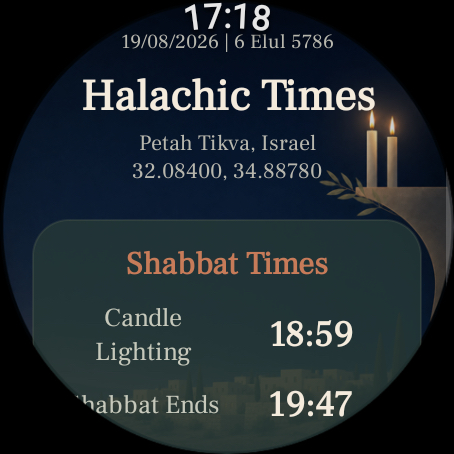
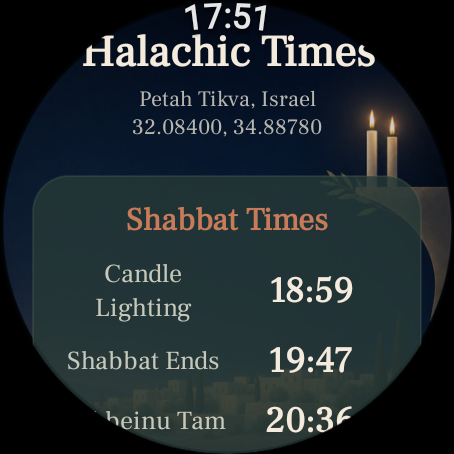
Polish English alerts and store screenshots

diff --git a/app/src/main/java/com/woodpeckerbros/watchreminder/UiText.java b/app/src/main/java/com/woodpeckerbros/watchreminder/UiText.java
@@ -181,6 +181,7 @@ public class UiText {
         put("כבוי", "Off");
         put("תזכורת דף היומי פעילה", "Daf Yomi reminder active");
         put("זמן לתזכורת", "Time for a Reminder");
+        put("אפשר לדחות", "Snooze options");
         put("בדיקת לימוד דף היומי", "Daf Yomi Study Check");
         put("תיקון סימון", "Fix Marking");
         put("אם סימנת בטעות שלמדת, אפשר להחזיר דף לרשימת ההשלמות", "If you marked a page learned by mistake, you can move it back to the catch-up list");
@@ -244,6 +245,8 @@ public class UiText {
         put("סוף זמן שמע גר״א", "Latest Shema (GRA)");
         put("סוף זמן ברכות ק״ש", "Latest Shema Blessings");
         put("חצות", "Halachic Midday");
+        put("חצות יום", "Halachic Midday");
+        put("חצות לילה", "Halachic Midnight");
         put("מנחה גדולה", "Mincha Gedola");
         put("מנחה קטנה", "Mincha Ketana");
         put("פלג המנחה", "Plag HaMincha");

diff --git a/app/src/main/java/com/woodpeckerbros/watchreminder/ReminderAlertActivity.java b/app/src/main/java/com/woodpeckerbros/watchreminder/ReminderAlertActivity.java
@@ -106,16 +106,13 @@ public class ReminderAlertActivity extends Activity {
         LinearLayout.LayoutParams iconParams = new LinearLayout.LayoutParams(dp(64), dp(64));
         iconParams.setMargins(0, dp(2), 0, dp(8));
         icon.setLayoutParams(iconParams);
-        TextView title = text("זמן לתזכורת", 18, COLOR_TEXT);
-        AppFont.bold(title);
-        TextView name = text(alertReminderName, 25, COLOR_TEXT);
+        TextView name = text(alertReminderName, 21, COLOR_TEXT);
         AppFont.bold(name);
         name.setPadding(0, dp(7), 0, dp(7));
         TextView description = text(reminderDescription, 14, COLOR_MUTED);
         description.setPadding(dp(6), 0, dp(6), dp(8));
 
         card.addView(icon);
-        card.addView(title);
         card.addView(name);
         if (!reminderDescription.isEmpty()) {
             card.addView(description);

diff --git a/PROJECT_STATUS.md b/PROJECT_STATUS.md
@@ -72,6 +72,9 @@ WatchReminder/
 - צילום זמני השבת העברי לחנות הוחלף בצילום ממוקם ידנית שמציג יחד את כותרת המסך, המיקום, איור הנרות וכל שלושת הזמנים: הדלקת נרות, צאת שבת וצאת שבת ר״ת.
 - צילום ההתראה העברי לחנות הוחלף בצילום ממוקם ידנית שמציג את שם התזכורת, שעת המקור, כפתור „בוצע” ותחילת אפשרויות הדחייה. זמן הסגירה הוארך רק באמולטור לצורך המיקום והוחזר לאחר הצילום לברירת המחדל של 30 שניות; רכיב הפתיחה הזמני הוסר.
 - לסט צילומי החנות העברי נוספו שלוש חלופות ממוקמות ידנית: זמני היום ביום רגיל עם פרשת השבוע וזמני הבוקר, מסך תזכורת לברכה עם אפשרויות הברכה, ומסך יצירת תזכורת המציג את סוגי התזכורות והגדרת זמן הלכתי. כעת קיימים 11 מועמדים בעברית, שמתוכם יש לבחור עד 8 להעלאה ל־Google Play.
+- במסך ההתראה תוקן התרגום החסר של „אפשר לדחות” ל־`Snooze options`. שם התזכורת הוקטן מ־25sp ל־21sp כדי למנוע חיתוך בשמות ארוכים באנגלית, והשורה הגנרית „זמן לתזכורת” / `Time for a Reminder` הוסרה לחלוטין בעברית ובאנגלית כדי להשאיר את שם התזכורת ככותרת היחידה.
+- ששת צילומי החנות האנגליים המקבילים הוחלפו או נוספו במיקום ידני: יום נישואין, זמני שבת, התראה, זמני היום ביום רגיל, תזכורת לברכה ויצירת תזכורת. כעת קיימים 11 מועמדים גם באנגלית. רכיב ההדגמה הזמני הוסר לאחר הצילום וזמן הסגירה האוטומטית נשאר 30 שניות.
+- נוספו התרגומים החסרים `Halachic Midday` ו־`Halachic Midnight` עבור „חצות יום” ו„חצות לילה”, כך ששני הערכים אינם מופיעים עוד בעברית כאשר שפת האפליקציה אנגלית.
 - בוצע סבב ראשון של חיסכון בסוללה: שירות ההמתנה לענידת השעון מוגבל כעת לחמש דקות, אינו `START_STICKY`, ולאחר עצירתו מתוזמנת בדיקה חסכונית ולא־מדויקת אחת כל 15 דקות כל עוד קיימות התראות ממתינות. עם זיהוי חזרה ליד בדיקת הגיבוי מבוטלת וההתראות שחלפו מוזרמות מיד.
 - אם השעון מוסר מהיד בזמן 30 השניות שלאחר הצגת התראה, הדחייה האוטומטית אינה יוצרת עוד snooze ויקיצה כל חמש דקות; המופע הפעיל מועבר בשלמותו לתור ההמתנה לענידה ונשאר במצב שלא אושר.
 - בקשות רענון סמוכות של complications מאוחדות כעת באמצעות debounce של 15 שניות. ברירת המחדל של סגנון הרטט נשארה „רגיל”, וברירת המחדל של אורך ההתראה שונתה ל־3 שניות.

diff --git a/store-assets/screenshots/wear/README.md b/store-assets/screenshots/wear/README.md
@@ -3,8 +3,8 @@
 שני סטים מוכנים להעלאה ל-Google Play:
 
 - `he/` — אחד־עשר צילומים מועמדים בעברית; Google Play מאפשר לבחור ולהעלות עד שמונה מהם.
-- `en/` — שמונה צילומים באנגלית.
+- `en/` — אחד־עשר צילומים מועמדים באנגלית; Google Play מאפשר לבחור ולהעלות עד שמונה מהם.
 
 כל קובץ הוא JPEG אטום בגודל 454×454 וביחס 1:1. הצילומים נוצרו באמולטור עם נתוני הדגמה בלבד ואינם מכילים נתונים מהשעון האישי.
 
-שמונה התמונות הראשונות בכל שפה הן הסט המקורי. לסט העברי נוספו שלוש חלופות ממוקמות ידנית: זמני היום ביום רגיל, תזכורת לברכה ויצירת תזכורת חדשה. יש לבחור מתוכן את שמונת הצילומים החזקים ביותר בעת ההעלאה.
+שמונה התמונות הראשונות בכל שפה הן הסט המקורי. לשני הסטים נוספו שלוש חלופות ממוקמות ידנית: זמני היום ביום רגיל, תזכורת לברכה ויצירת תזכורת חדשה. יש לבחור מתוכן את שמונת הצילומים החזקים ביותר בעת ההעלאה.
